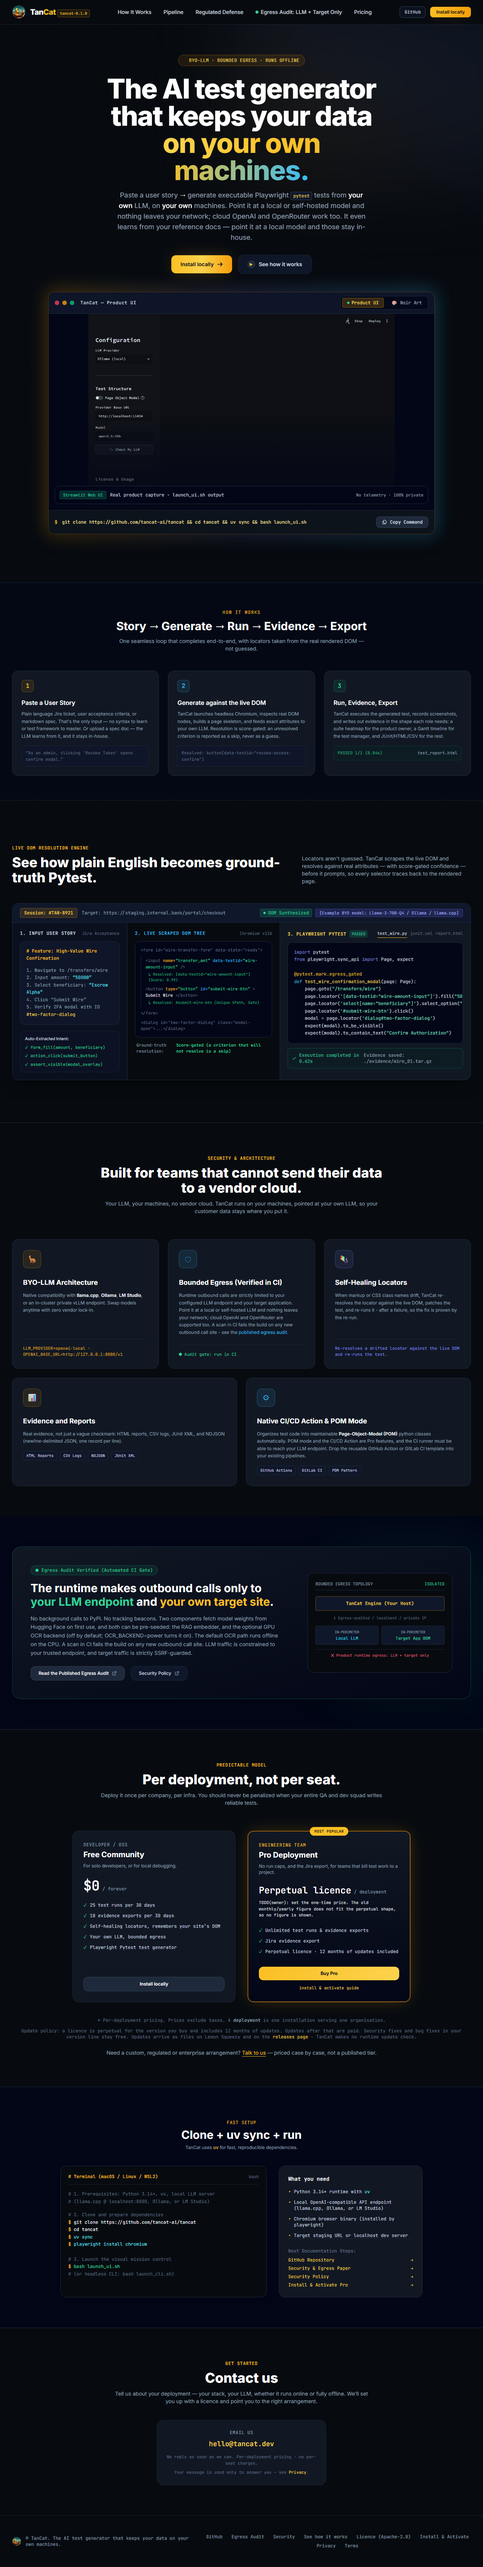
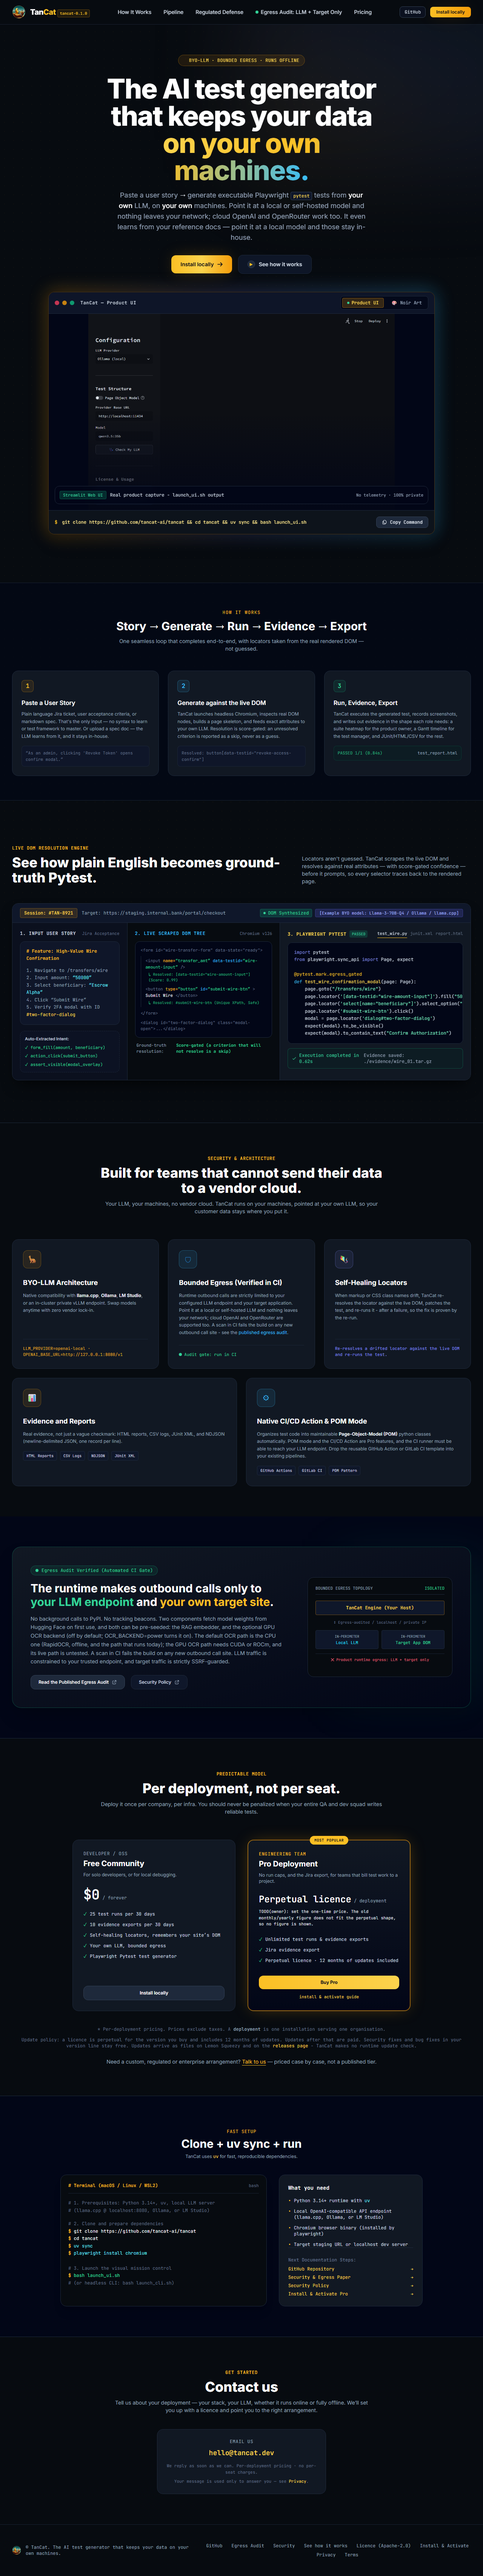
fix(landing): do not name the OCR model; make the GPU OCR hardware note honest (t-0776)
The model name is dropped from landing/index.html and docs/security/egress-audit.md
- it is subject to change (tier 3 will be re-picked from it), its licence is
unconfirmed in the repo, and the owner cannot test it. The disclosure stays
generic.

- landing/index.html: the line now says the default OCR path is the CPU one
  (RapidOCR, offline, the path that runs today) and the GPU OCR path needs CUDA
  or ROCm with an untested live path.
- docs/security/egress-audit.md: section 6's table row and the pre-seeding note
  no longer name the model or its class ("vision-language OCR model").
- CHANGELOG: the t-0773 entry is genericised; a t-0776 entry added.

Assets: og-card, both previews and asset-sources.json regenerated; the install
PDF source did not change, so its binary churn was reverted.

Verified: landing_assets_guard.py --check green; no "baidu" / "Unlimited-OCR"
remains in either file; site-health + asset-guard tests 20 passed; all
pre-commit hooks passed.

diff --git a/landing/index.html b/landing/index.html
@@ -266,7 +266,7 @@
   <div class="max-w-2xl">
     <div class="inline-flex items-center gap-2 px-3 py-1 rounded-full bg-emerald-500/10 border border-emerald-500/30 text-emerald-400 text-xs font-mono mb-4"><span class="w-2 h-2 rounded-full bg-emerald-400 animate-pulse"></span> Egress Audit Verified (Automated CI Gate)</div>
     <h2 class="text-2xl sm:text-3xl font-bold text-white leading-snug">The runtime makes outbound calls only to <span class="text-emerald-400">your LLM endpoint</span> and <span class="text-amber-400">your own target site</span>.</h2>
-    <p class="text-slate-400 text-sm mt-4 leading-relaxed">No background calls to PyPI. No tracking beacons. Two components fetch model weights from Hugging Face on first use, and both can be pre-seeded: the RAG embedder, and the optional GPU OCR backend (off by default; OCR_BACKEND=power turns it on). The default OCR path runs offline on the CPU. A scan in CI fails the build on any new outbound call site. LLM traffic is constrained to your trusted endpoint, and target traffic is strictly SSRF-guarded.</p>
+    <p class="text-slate-400 text-sm mt-4 leading-relaxed">No background calls to PyPI. No tracking beacons. Two components fetch model weights from Hugging Face on first use, and both can be pre-seeded: the RAG embedder, and the optional GPU OCR backend (off by default; OCR_BACKEND=power turns it on). The default OCR path is the CPU one (RapidOCR, offline, and the path that runs today); the GPU OCR path needs CUDA or ROCm, and its live path is untested. A scan in CI fails the build on any new outbound call site. LLM traffic is constrained to your trusted endpoint, and target traffic is strictly SSRF-guarded.</p>
     <div class="mt-6 flex flex-wrap items-center gap-4">
       <a class="px-5 py-2.5 rounded-xl font-medium text-xs text-white bg-slate-800 hover:bg-slate-700 border border-slate-700 flex items-center gap-2 transition-all" href="https://github.com/tancat-ai/tancat/blob/main/docs/security/egress-audit.md" rel="noopener noreferrer" target="_blank">Read the Published Egress Audit <svg class="w-3.5 h-3.5 text-slate-400" fill="none" stroke="currentColor" viewbox="0 0 24 24"><path d="M10 6H6a2 2 0 00-2 2v10a2 2 0 002 2h10a2 2 0 002-2v-4M14 4h6m0 0v6m0-6L10 14" stroke-linecap="round" stroke-linejoin="round" stroke-width="2"></path></svg></a>
       <a class="px-5 py-2.5 rounded-xl font-medium text-xs text-slate-300 hover:text-white bg-slate-900 hover:bg-slate-800 border border-slate-800 flex items-center gap-2 transition-all" href="https://github.com/tancat-ai/tancat/blob/main/SECURITY.md" rel="noopener noreferrer" target="_blank">Security Policy <svg class="w-3.5 h-3.5 text-slate-400" fill="none" stroke="currentColor" viewbox="0 0 24 24"><path d="M10 6H6a2 2 0 00-2 2v10a2 2 0 002 2h10a2 2 0 002-2v-4M14 4h6m0 0v6m0-6L10 14" stroke-linecap="round" stroke-linejoin="round" stroke-width="2"></path></svg></a>

diff --git a/CHANGELOG.md b/CHANGELOG.md
@@ -15,7 +15,8 @@ Version numbers follow [Semantic Versioning](https://semver.org/spec/v2.0.0.html
 - **Held-out gate re-measured on current main: 94/113 (83.2%), 0 hollow passes (2026-10-12, t-0750):** a live held-out run of the 9 golden stories (6 sites, 113 placeholders) against `Qwen3.8-27B-UD-Q4_K_XL_v2.gguf` (openai-local, thinking off, temperature 0.0, RAG on) scores **94/113 = 83.2%** and **0 hollow passes** - gate 2 passes for the first time, gate 1 still fails the >=90% target. **The like-for-like baseline is the latest same-settings run, not the old 82/113 record.** The 2026-10-09 run (c68fe5f) has the same provider, model file, thinking, temperature, RAG flag and harness mode, and the identical committed golden dataset (tree hash `a8acb0f`, unchanged since c20c1d2 on 2026-10-03), and scored 89/113; the same-settings band is 89-92/113. Movement: **+5 against that latest run (89 -> 94)**, of which **+3 is the flaky eval-004 (1/7 -> 4/7)** and **+2 is eval-007** (c6/c7), so the code-attributable movement is +2; **+2 against the best of the band (92)**. The 2026-09-25 82/113 record is a different generation with deleted evidence, so 82 -> 94 is not a same-settings movement. The run kept its evidence (`scratch/eval_runs/2026-10-12_heldout`) and re-scores with no model to the same numbers. The remaining 19 gate-1 misses are 14 `wrong_element`, 3 `target_never_captured`, 1 `weakened_to_visible_element` and 1 `element_instead_of_page_arrival`. Record: `docs/sessions/2026-10-12_heldout_gates.md`; `scripts/eval/known_gate_scores.json` (the 82/113 + 3 record is preserved under `previous`).
 
 ### Fixed
-- **Landing egress line corrected again, and the egress audit now discloses the model downloads (2026-10-13, t-0773):** the t-0771 rewrite said "The RAG embedder is the one runtime download", which is false: `src/ocr_backends.py` `UnlimitedOCRBackend` also fetches ~6 GB from Hugging Face on first use (`AutoModel.from_pretrained`). The landing line now names both downloads and states that the default OCR path runs offline on the CPU and the GPU OCR backend is opt-in (`OCR_BACKEND=power`). `docs/security/egress-audit.md` had the same gap - its call-site scan only sees the product's own `src/` HTTP call sites, so the library-level model downloads were invisible; it now carries a caveat at the top and a section 6 table disclosing the RAG embedder and the optional GPU OCR backend, with pre-seeding guidance. Landing assets regenerated; `landing_assets_guard.py --check` green; site-health + asset-guard tests 20 passed.
+- **OCR model not named, and the GPU OCR hardware note made honest (2026-10-13, t-0776):** the model name is dropped from `landing/index.html` and `docs/security/egress-audit.md` - the model is subject to change (tier 3 will be re-picked), its licence is unconfirmed in the repo, and the owner cannot test it - so the disclosure is generic ("the optional GPU OCR backend downloads a model from Hugging Face on first use, and it can be pre-seeded"). The landing line also states the hardware truth: the default OCR path is the CPU one (RapidOCR, offline, and the path that runs today); the GPU OCR path needs CUDA or ROCm and its live path is untested. Landing assets regenerated; `landing_assets_guard.py --check` green; site-health + asset-guard tests 20 passed.
+- **Landing egress line corrected again, and the egress audit now discloses the model downloads (2026-10-13, t-0773):** the t-0771 rewrite said "The RAG embedder is the one runtime download", which is false: the optional GPU OCR backend in `src/ocr_backends.py` also fetches ~6 GB from Hugging Face on first use (`AutoModel.from_pretrained`). The landing line now names both downloads and states that the default OCR path runs offline on the CPU and the GPU OCR backend is opt-in (`OCR_BACKEND=power`). `docs/security/egress-audit.md` had the same gap - its call-site scan only sees the product's own `src/` HTTP call sites, so the library-level model downloads were invisible; it now carries a caveat at the top and a section 6 table disclosing the RAG embedder and the optional GPU OCR backend, with pre-seeding guidance. Landing assets regenerated; `landing_assets_guard.py --check` green; site-health + asset-guard tests 20 passed.
 - **Resolver accuracy classes A and C attacked with tests (2026-10-13, t-0754):** two still-open classes the held-out probe named. **Class A (wrong page pool for deferred ASSERTs, the hollow passes):** `PlaceholderOrchestrator._batch_resolve_deferred_asserts` now resolves each deferred ASSERT against its own page cursor and its own preceding-selector exclusion, instead of one page and one exclusion for the whole batch. The old behaviour let a later ASSERT re-select an earlier step's control (eval-006 c7 chose `#place-order`) and never advanced to the page the previous match lived on (checkout.html, not checkout_success.html). **Class C (no identity / success-vs-error polarity floor):** `PlaceholderScorer.compute_element_score` now returns `None` for a message-like ASSERT whose element carries the opposite outcome (eval-007 c5: "transfer success message" was answered with `#transfer-error`), and for a generic weak candidate that shares no identity token with the criterion (the `.text` shape). The polarity check also guards `_assert_message_bonus`. Class E (eval-006 c2/c4 emitting nothing) was **not** reproduced on current HEAD - the 2026-10-12 evidence shows both criteria emit an assertion - so no change was made there. New tests: `tests/test_t0754_accuracy_classes.py` (7, each fails without its change). No held-out re-measure here - that is a separate job. Gates: 3882 pytest, smoke 39/39, ruff + mypy clean.
 - **Dependabot no longer proposes the deliberate pins (2026-10-12, t-0739):** `.github/dependabot.yml` now has an `ignore` list on the `uv` ecosystem for `pymilvus` (all updates; pinned to 3.0.0 because 3.0.2 caused the RAG "Too many pings" GOAWAYs) and `grpcio` (all updates; held at 1.83.0 by the `[tool.uv]` constraint until the Python 3.15 move). The weekly runs open no update pull request for either, so the pymilvus 3.0.0 -> 3.0.2 proposal cannot come back. Grouping, schedule and limits are unchanged; SECURITY.md records the exclusion. Verified: the YAML parses and the `uv` entry carries exactly those two ignores.
 - **Update and support copy now matches the approved licence shape (2026-10-12, t-0732):** the Pro card promised "Support &amp; updates while licensed" while the install page said the product makes no update check. Both are now replaced by one policy, stated the same way on the Pro card, the install page, the terms, the licence PDF and the user docs: a licence is **perpetual for the version you buy**, includes **12 months of updates**, later updates are paid, and security fixes and bug fixes in the bought version line stay free. Updates are delivered as files on Lemon Squeezy and on the releases page, so there is still no runtime update check. No price changed. Landing assets (og-card, both previews, the install PDF and the source fingerprint) were regenerated; `mkdocs build --strict` clean.

diff --git a/docs/security/egress-audit.md b/docs/security/egress-audit.md
@@ -100,8 +100,8 @@ pre-seedable; neither runs unless its feature is used.
 | Component | When | Source | Notes |
 |-----------|------|--------|-------|
 | RAG embedder (`SentenceTransformerEmbedder`, `src/rag_store.py`) | first embed, when RAG is enabled | Hugging Face (`sentence-transformers` model), one time | the default RAG store ships a bundled pattern pack; warming the model cache before going offline pre-seeds it |
-| Optional GPU OCR backend (`UnlimitedOCRBackend`, `src/ocr_backends.py`) | first PDF parse, only when `OCR_BACKEND=power` is set | Hugging Face (`baidu/Unlimited-OCR`, ~6 GB), one time | opt-in; needs CUDA/ROCm. The default OCR path (`RapidOCRBackend`, CPU) is offline. |
+| Optional GPU OCR backend (`src/ocr_backends.py`) | first PDF parse, only when `OCR_BACKEND=power` is set | Hugging Face (vision-language OCR model, ~6 GB), one time | opt-in; needs CUDA/ROCm and its live path is untested. The default OCR path (`RapidOCRBackend`, CPU) is offline. |
 
 No other runtime downloads. For a fully offline deployment: leave `OCR_BACKEND`
 at its default, and warm the RAG embedder's model cache (and, only if you use
-the GPU OCR tier, `baidu/Unlimited-OCR`) before the machine is air-gapped.
+the GPU OCR tier, its model) before the machine is air-gapped.
